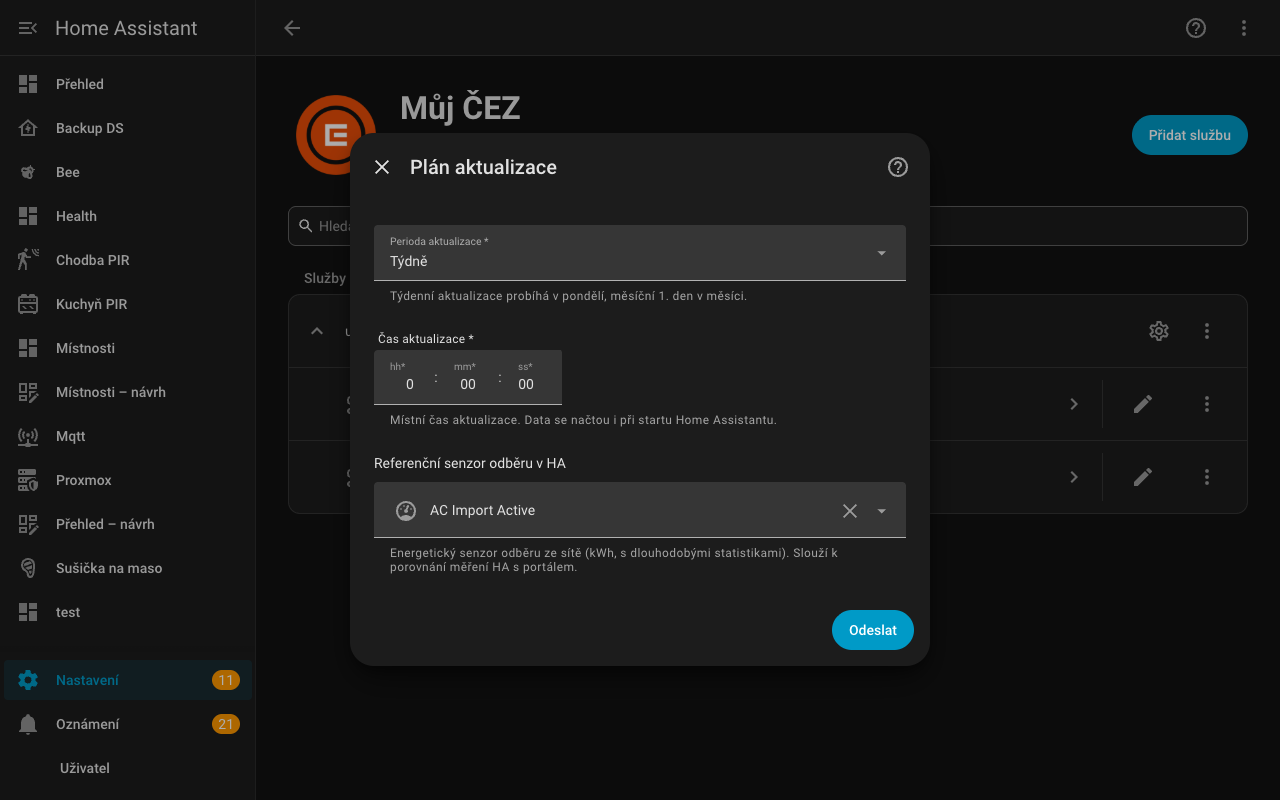
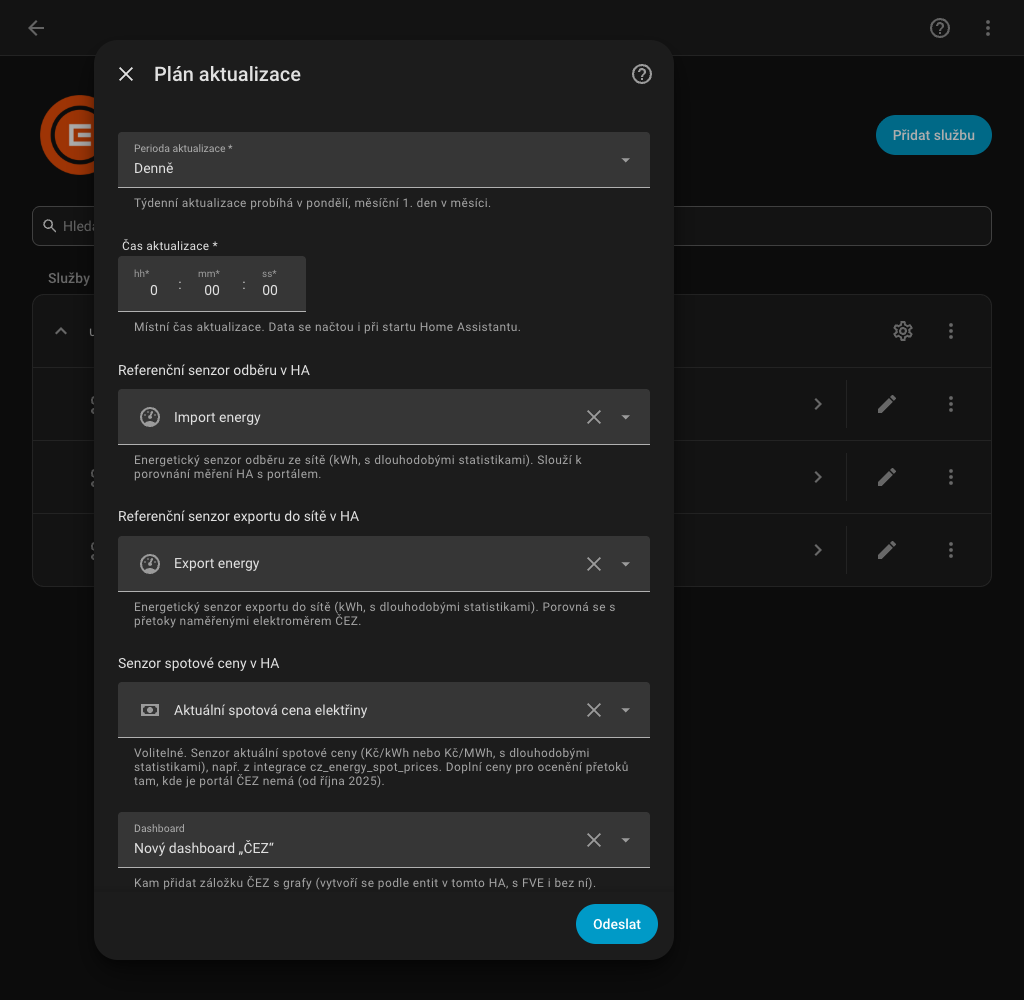
README: anonymized PV dashboard screenshots, automatic dashboard docs
Settings step title, strategy dashboards (e.g. map) are not offered as targets.

diff --git a/custom_components/muj_cez/dashboard.py b/custom_components/muj_cez/dashboard.py
@@ -155,13 +155,16 @@ async def async_dashboard_choices(hass: HomeAssistant) -> list[dict[str, str]]:
         if getattr(dash, "mode", None) != "storage":
             continue
         title = (getattr(dash, "config", None) or {}).get("title") or url or "Přehled"
-        if url is None:
-            # The default dashboard without a stored config is auto generated; writing
-            # into it would replace the generated content.
-            try:
-                await dash.async_load(False)
-            except ConfigNotFound:
+        # Skip dashboards generated by a strategy (e.g. map) and the default dashboard
+        # without a stored config (auto generated); writing would replace their content.
+        try:
+            config = await dash.async_load(False)
+        except ConfigNotFound:
+            if url is None:
                 continue
+            config = {}
+        if "strategy" in (config or {}):
+            continue
         if url == DASHBOARD_NEW_URL:
             continue
         choices.append({"value": url or DASHBOARD_DEFAULT, "label": title})

diff --git a/tests/test_dashboard.py b/tests/test_dashboard.py
@@ -139,6 +139,9 @@ async def test_strategy_dashboard_refused(
     await _setup(hass, freezer, "auto-map")
     assert await _config(hass, "auto-map") == {"strategy": {"type": "map"}}
     assert ir.async_get(hass).async_get_issue(DOMAIN, dashboard.ISSUE_FAILED)
+    # Not offered in the settings at all.
+    choices = await dashboard.async_dashboard_choices(hass)
+    assert "auto-map" not in {c["value"] for c in choices}
 
 
 async def test_update_dashboard_service(

diff --git a/README.md b/README.md
@@ -227,7 +227,7 @@ Aktualizace se dělá stejně: nahraďte složku `muj_cez` novou verzí a restar
 
 ### 3. Nastavení
 
-Ozubené kolo u účtu otevře **Plán aktualizace**:
+Při instalaci (krok **Nastavení** po přihlášení) i později přes ozubené kolo u účtu:
 
 ![Nastavení integrace](docs/img/instalace/04-nastaveni.png)
 
@@ -295,15 +295,43 @@ platby, poplatky). Doklady lze vypsat i akcí `muj_cez.get_documents` s filtry
 
 ### 5. Dashboard
 
-Ukázka pohledu ČEZ s predikcí, měsíčními a meziročními grafy (přepínání kWh / Kč)
+Dashboard není potřeba skládat ručně: v nastavení zvolte **Dashboard** (nový „ČEZ“ nebo
+existující) a integrace záložku vygeneruje sama podle entit ve vašem HA. U účtu bez
+fotovoltaiky obsahuje vyúčtování, zálohy, smlouvu, spotřebu po měsících, meziroční
+porovnání, zúčtovací období a doklady. Pokud portál eviduje průběhová data elektroměru
+(typicky FVE), přibudou sekce elektroměru, výkupu přetoků a spotových cen. Potřebné karty
+z HACS: button-card, stack-in-card, mini-graph-card.
+
+Ukázka pohledu ČEZ bez FVE s predikcí, měsíčními a meziročními grafy (přepínání kWh / Kč)
 a porovnáním s měřením HA:
 
 ![Dashboard ČEZ, horní část](docs/img/instalace/06-dashboard-1.png)
 
 ![Dashboard ČEZ, zúčtovací období](docs/img/instalace/07-dashboard-2.png)
 
-Tento pohled používá vlastní karty z HACS (button-card, stack-in-card, mini-graph-card,
-card-mod) a generuje ho skript `tools/dashboard/build_cez_view.py` pro Dashboard Editor.
+#### Ukázka s fotovoltaikou
+
+Souhrny elektroměru, výkupu přetoků a porovnání HA s elektroměrem ČEZ po měsících:
+
+![Dashboard s FVE – přehled](docs/img/fve/01-prehled.png)
+
+Odběr ze sítě a přetoky po měsících, vyplacený výkup proti hodnotě přetoků za spotovou cenu:
+
+![Dashboard s FVE – odběr, přetoky a výkup](docs/img/fve/02-odber-pretoky-vykup.png)
+
+Spotová cena dnes a zítra (před zveřejněním zítřka odhad podle posledních 7 dní) a po
+měsících: průměr spotu, spot vážený přetoky a vyplacená výkupní cena:
+
+![Dashboard s FVE – spotové ceny](docs/img/fve/03-spot.png)
+
+Na mobilu (grafy mají tooltipy, řádky otevírají detail entity, přepínač kWh / Kč funguje i na dotyk):
+
+<img src="docs/img/fve/04-mobil-spot.png" width="360" alt="Dashboard s FVE na mobilu">
+
+Údaje na snímcích (EAN, čísla smluv a elektroměru, adresa) jsou anonymizované.
+
+Pohled používá vlastní karty z HACS (button-card, stack-in-card, mini-graph-card;
+card-mod je volitelný). Šablona pochází ze skriptu `tools/dashboard/build_cez_view.py`.
 Jednodušší karty bez dalších závislostí (tabulka zúčtovacích období, kalendář dokladů,
 automatizace upozornění na nezaplacené doklady) jsou v [docs/dashboard.md](docs/dashboard.md).
 
